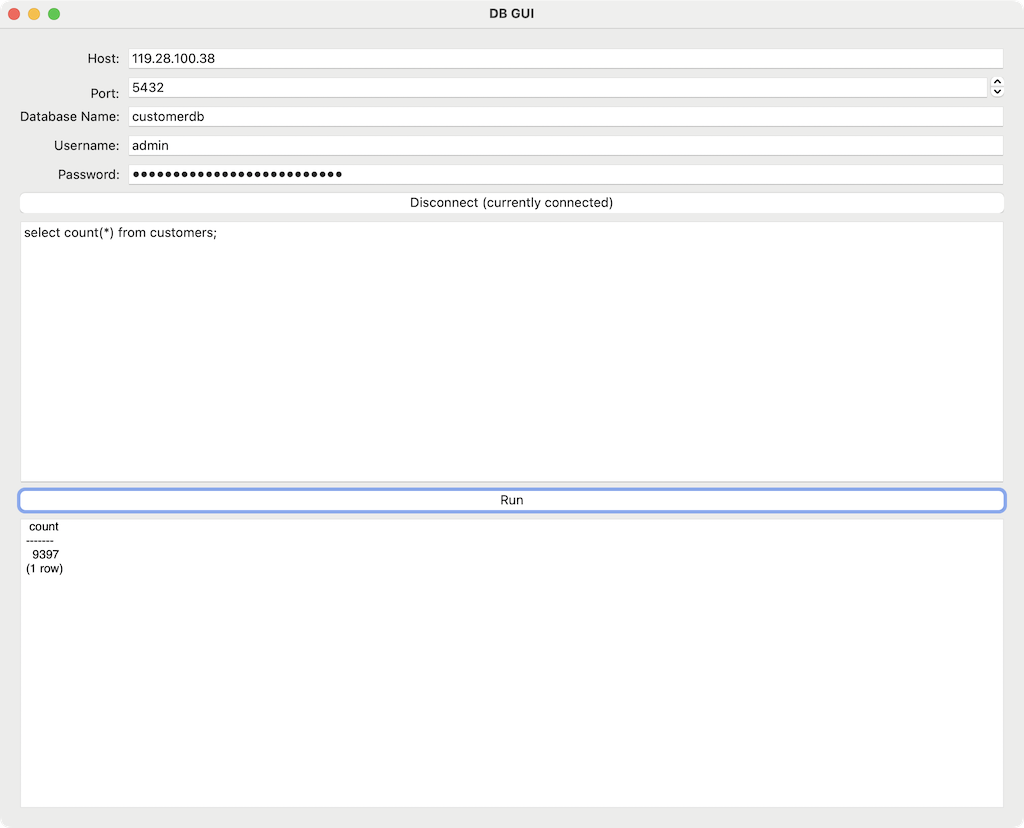
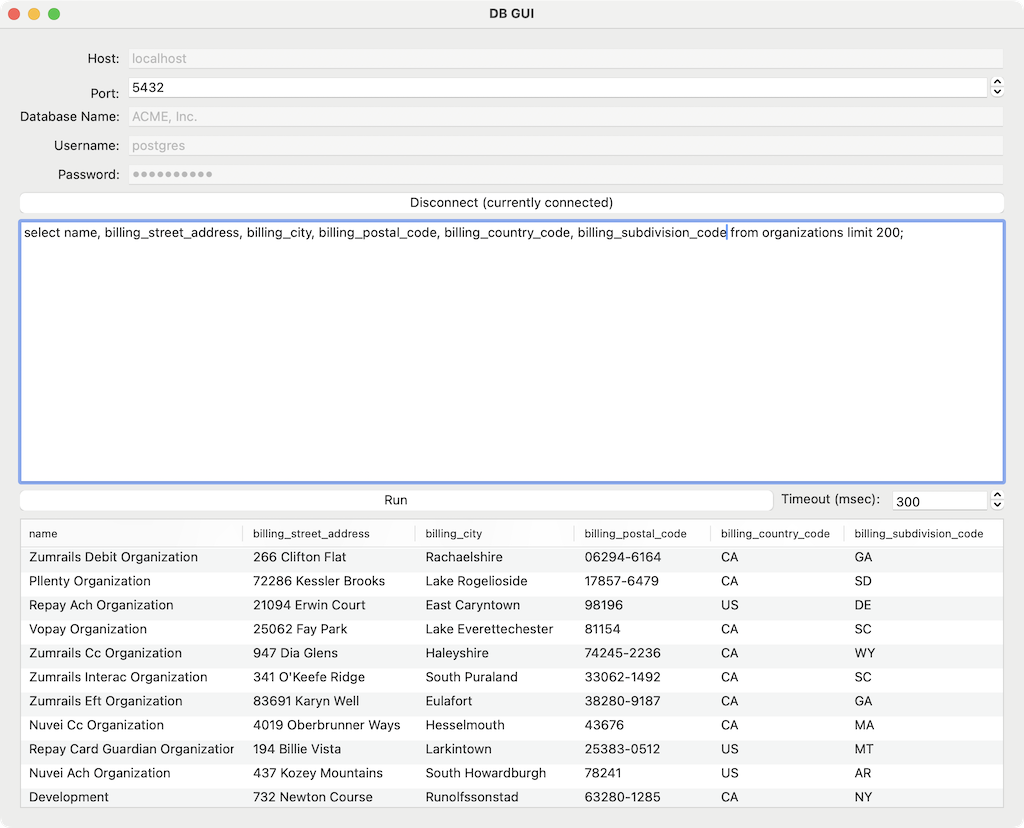
Update screenshot/docs

diff --git a/README.md b/README.md
@@ -3,7 +3,7 @@
 [![Gem Version](https://badge.fury.io/rb/db-gui.svg)](http://badge.fury.io/rb/db-gui)
 
 
-This is a database graphical user interface that enables interaction with relational SQL database data.
+This is an early alpha database graphical user interface that enables interaction with a relational SQL database.
 
 It currently supports PostgreSQL as a start, with the potential of supporting many other databases in the future.
 
@@ -23,20 +23,9 @@ Run:
 dbui
 ```
 
-Or run alias:
-```
-db-ui
-```
+Or, run one of the aliases: `db-ui` / `dbgui` / `db-gui`
 
-Or run alias:
-```
-dbgui
-```
-
-Or run alias:
-```
-db-gui
-```
+Note that it stores the last connection details under `~/.db_gui`, and will auto-connect using that configuration on startup for extra convenience (in the future, there is the potential to support multiple connection configurations).
 
 ## Change Log
 

diff --git a/TODO.md b/TODO.md
@@ -1,6 +1,8 @@
 # TODO
 
-- Prevent the DB command timeout from making the user wait before the GUI is updated
+- Add screenshot of newest version
+- Show exceptions/errors to user
+- Prevent the DB command timeout from making the user wait before the GUI is updated (otherwise consider having it extended automatically if needed)
 - Save multiple DB configs (accounts)
 - Remember last DB command
 - Remember all DB commands in a history
